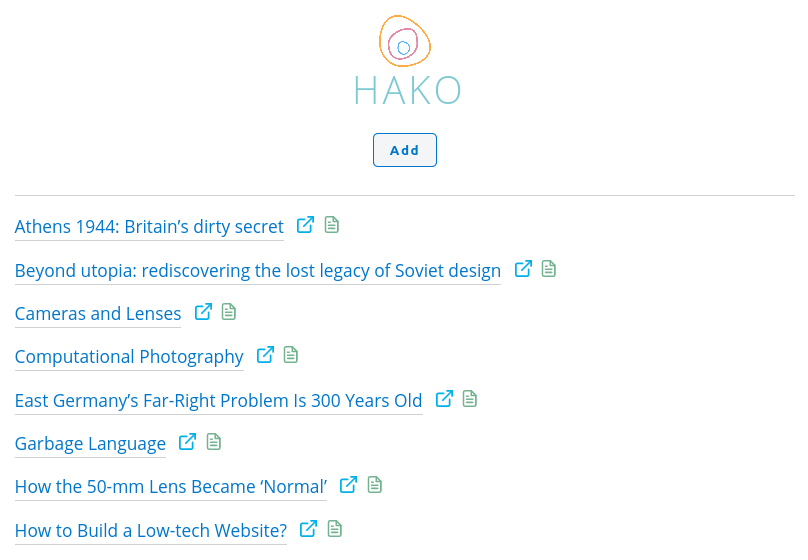
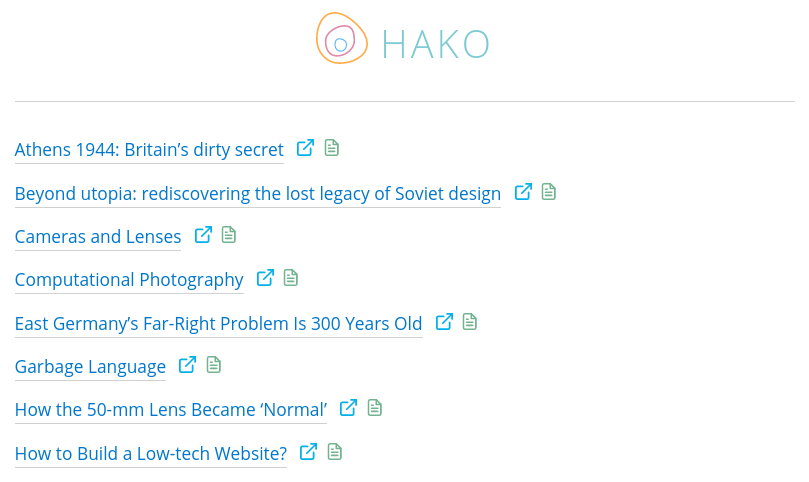
Minor cosmetic tweaks

diff --git a/index.php b/index.php
@@ -33,11 +33,10 @@ if (!empty($_GET['title']) and $_GET['key'] == $KEY) {
 
 <body>
     <div class="text-center">
-        <img style="display: inline; height: 3em;" src="favicon.png" alt="logo" />
-        <h1 style="margin-left: 0.2em; margin-top: 0em; letter-spacing: 3px; color: rgb(125, 202, 210);">HAKO</h1>
-        <button style="margin-top: 1.5em; margin-bottom: 1.5em;" onclick='window.location.href = "add.php"'>Add</button>
+        <img style="vertical-align: text-bottom; height: 3em;" src="favicon.svg" alt="logo" />
+        <h1 style="display: inline; margin-left: 0.2em; margin-top: 0em; letter-spacing: 3px; color: rgb(125, 202, 210);">HAKO</h1>
+        <hr style="margin-top: 2em; margin-bottom: 2em;">
     </div>
-    <hr>
     <?php
     $fileList = glob('archive/*.html');
     foreach ($fileList as $filename) {
@@ -53,6 +52,7 @@ if (!empty($_GET['title']) and $_GET['key'] == $KEY) {
     ?>
     <hr style="margin-bottom: 1em;">
     <div class="text-center">
+        <p><button style="margin-bottom: 1.5em;" onclick='window.location.href = "add.php"'>Add</button></p>
         &copy; <?php echo date("Y"); ?>. This is <a href="https://github.com/dmpop/hako">Hako</a>
     </div>
 </body>

diff --git a/add.php b/add.php
@@ -17,9 +17,9 @@ error_reporting(E_ERROR);
 
 <body>
     <div class="text-center">
-        <img style="display: inline; height: 3em;" src="favicon.png" alt="logo" />
-        <h1 style="margin-left: 0.2em; margin-top: 0em; letter-spacing: 3px; color: rgb(125, 202, 210);">HAKO</h1>
-        <hr style="margin-bottom: 2em;">
+        <img style="vertical-align: text-bottom; height: 3em;" src="favicon.svg" alt="logo" />
+        <h1 style="display: inline; margin-left: 0.2em; margin-top: 0em; letter-spacing: 3px; color: rgb(125, 202, 210);">HAKO</h1>
+        <hr style="margin-top: 2em; margin-bottom: 2em;">
     </div>
     <form action="index.php" method="GET">
         <label for="url">URL:</label>
